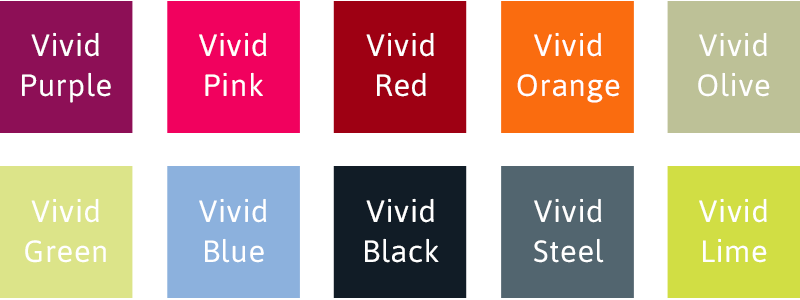
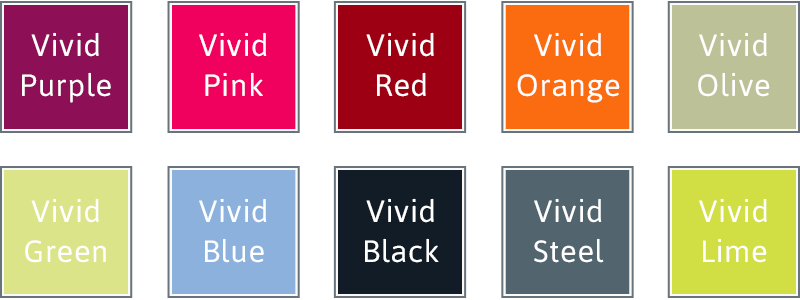
Numerous updates
* Add slideshow
* Improve color range section

diff --git a/css/theme.css b/css/theme.css
@@ -1,1 +1,1 @@
-body{font-family:'Open Sans',sans-serif;font-size:17px;line-height:27px;color:#68737c}h1,h2,h3,h4,h5,h6{font-family:'Asap',serif;font-weight:700;letter-spacing:1px}ul,ol{margin:15px 0 30px 10px;padding:0 0 0 20px}ul li,ol li{margin:0 0 8px 0}ul.no-bullets,ol.no-bullets{list-style:none;margin:0 0 20px 0;padding:0}ul.no-bullets li,ol.no-bullets li{margin:6px 0 10px 0}ul.no-bullets .fa,ol.no-bullets .fa{width:31px}em{font-style:normal;color:#3d464c;background:#fff5f6}a,a:hover,a:focus,a:active,a.active{outline:0}a{color:#e5293b}a:hover{color:#ff6574}a:focus,a:active{color:#ff6574;background:#fff5f6}.btn:focus,.btn:active,.btn.active,.btn:active:focus{outline:0}.btn-primary{font-size:17px;font-weight:700;text-transform:uppercase;letter-spacing:1px;text-shadow:0 1px 0 #bc0719;background:#e5293b;box-shadow:0 3px 0 0 #bc0719;border:0;border-radius:30px;margin:10px 10px 10px 0;padding:8px 22px}.btn-primary:hover,.btn-primary:active,.btn-primary:focus{background:#bc0719;box-shadow:0 3px 0 0 black}.btn-primary.size-lg{font-size:19px;padding:14px 40px}::selection{text-shadow:none;color:#bc0719;background:#fff5f6}.navbar-default .navbar-brand{background-image:url('../img/logo/logo-easyclad.png');background-repeat:no-repeat;background-size:80%!important;width:181px;height:27px;margin:14px 0 0 15px;-webkit-transition:all .3s;-moz-transition:all .3s;transition:all .3s}@media(-webkit-min-device-pixel-ratio:1.5),(min--moz-device-pixel-ratio:1.5),(-o-min-device-pixel-ratio:3/2),(min-resolution:1.5dppx){.navbar-default .navbar-brand{background-image:url('../img/logo/logo-easyclad_2x.png');background-repeat:no-repeat;background-size:181px 27px}}.navbar-default .navbar-brand:hover{opacity:.85}.navbar-default .navbar-toggle{background-color:#ff6574;border-color:#ff6574}.navbar-default .navbar-toggle .icon-bar{background-color:white}.navbar-default .navbar-toggle:hover,.navbar-default .navbar-toggle:focus{background-color:#e5293b;border-color:#e5293b}.navbar-default .nav li a{font-weight:700;letter-spacing:1px;color:#ff6574;padding:10px 20px}.navbar-default .nav li a:hover,.navbar-default .nav li a:focus{color:#e5293b;border-radius:30px;background:#fff5f6}.navbar-default .navbar-nav>.active>a{color:#e5293b;background:#fff5f6;border-radius:30px}.navbar-default .navbar-nav>.active>a:hover,.navbar-default .navbar-nav>.active>a:focus{color:#e5293b;background:#fff5f6;border-radius:30px}@media(min-width:768px){.navbar-default{background-color:rgba(255,255,255,0.88);box-shadow:0 1px 2px rgba(0,0,0,0.1);border-bottom:1px solid #fff;padding:16px 0 9px 0;-webkit-transition:padding .3s;-moz-transition:padding .3s;transition:padding .3s}.navbar-default .navbar-brand{background-image:url('../img/logo/logo-easyclad.png');background-repeat:no-repeat;background-size:100%!important;margin-top:6px}.navbar-default .navbar-nav>.active>a{border-radius:30px}.navbar-default.navbar-shrink{padding:6px 0 0 0}.navbar-default.navbar-shrink .navbar-brand{background-size:80%!important;margin-top:10px}}@media(min-width:768px) and (-webkit-min-device-pixel-ratio:1.5),(min--moz-device-pixel-ratio:1.5),(-o-min-device-pixel-ratio:3/2),(min-resolution:1.5dppx){.navbar-default .navbar-brand{background-image:url('../img/logo/logo-easyclad_2x.png');background-repeat:no-repeat;background-size:181px 27px}}header{color:white;background-image:url('../img/hero/hero-bg.jpg');background-repeat:no-repeat;background-size:cover!important;background-position:50% 0;border-bottom:2px solid #e5293b}@media(-webkit-min-device-pixel-ratio:1.5),(min--moz-device-pixel-ratio:1.5),(-o-min-device-pixel-ratio:3/2),(min-resolution:1.5dppx){header{background-image:url('../img/hero/hero-bg_2x.jpg');background-repeat:no-repeat;background-size:425px 253px}}header .intro-text{text-align:center;padding-top:100px;padding-bottom:50px}header .intro-text h2,header .intro-text h3{font-family:'Asap',serif;letter-spacing:1px;color:#e5293b;background:rgba(255,255,255,0.72);display:inline-block}header .intro-text h2{font-family:'Asap',serif;font-size:48px;line-height:54px;font-weight:400;font-style:italic;margin-bottom:18px;padding:0 8px 14px 8px}header .intro-text h3{font-size:24px;line-height:30px;color:#3d464c;margin:0 0 30px 0;padding:0 6px 6px 6px}@media(min-width:768px){header{min-height:700px;-webkit-animation:fadein 3s;-moz-animation:fadein 3s;-ms-animation:fadein 3s;-o-animation:fadein 3s;animation:fadein 3s}header .intro-text{padding-top:260px;padding-bottom:200px}header .intro-text h2{font-size:68px;line-height:74px}header .intro-text h3{font-size:34px;line-height:40px}}section{padding:20px 0}section h2.section-heading{color:#3d464c;margin:0}section h3.section-subheading{font-size:19px;line-height:26px;font-family:'Asap',serif;font-weight:400;margin:40px 0 20px 0}section h3.section-subheading.sidebar-widget{color:#3d464c;border-bottom:2px solid #f0f5f7;padding-bottom:10px}section h4{font-size:20px;color:#3d464c;margin:40px 0 20px 0}section img{margin-top:12px;margin-bottom:24px}@media(min-width:768px){section{padding:60px 0}section .main-col-wrap{margin:0 0 50px 0;padding-right:60px}section#about{padding:30px 0 50px 0}}section#about,section#color-range,section#contact{background:#fafcfd;border-top:2px solid #f0f5f7;border-bottom:2px solid #f0f5f7}aside.clients img{margin:50px auto}section#contact .form-group{margin-bottom:25px}section#contact .form-group input,section#contact .form-group textarea{padding:20px}section#contact .form-group input.form-control{height:auto}section#contact .form-group textarea.form-control{height:236px}section#contact .form-control:focus{box-shadow:none}footer{background-color:#fafcfd;border-top:2px solid #f0f5f7;padding:100px 0}footer .row>div{margin-bottom:20px}footer p{margin:0}footer p em{font-size:15px;font-weight:bold;color:#3d464c;background:0;margin-right:5px}footer p .fa{font-size:18px;color:#3d464c;position:relative;top:1px;width:25px}footer p a{vertical-align:top;color:#68737c}footer p a:hover{text-decoration:none;color:#e5293b}footer p.company-copyright{color:#3d464c;display:inline-block}.product-modal .modal-content{border-radius:0;background-clip:border-box;-webkit-box-shadow:none;box-shadow:none;border:0;min-height:100%;padding:100px 0;text-align:center}.product-modal .modal-content h2{margin-bottom:15px;font-size:3em}.product-modal .modal-content p{margin-bottom:30px}.product-modal .modal-content p.item-intro{margin:20px 0 30px;font-family:'Asap',serif;font-style:italic;font-size:16px}.product-modal .modal-content ul.list-inline{margin-bottom:30px;margin-top:0}.product-modal .modal-content img{margin-bottom:30px}.product-modal .close-modal{position:absolute;width:75px;height:75px;background-color:transparent;top:25px;right:25px;cursor:pointer}.product-modal .close-modal:hover{opacity:.3}.product-modal .close-modal .lr{height:75px;width:1px;margin-left:35px;background-color:#3d464c;transform:rotate(45deg);-ms-transform:rotate(45deg);-webkit-transform:rotate(45deg);z-index:1051}.product-modal .close-modal .lr .rl{height:75px;width:1px;background-color:#3d464c;transform:rotate(90deg);-ms-transform:rotate(90deg);-webkit-transform:rotate(90deg);z-index:1052}@keyframes fadein{from{opacity:0}to{opacity:1}}@-moz-keyframes fadein{from{opacity:0}to{opacity:1}}@-webkit-keyframes fadein{from{opacity:0}to{opacity:1}}@-ms-keyframes fadein{from{opacity:0}to{opacity:1}}@-o-keyframes fadein{from{opacity:0}to{opacity:1}}
+body{font-family:'Open Sans',sans-serif;font-size:17px;line-height:27px;color:#68737c}h1,h2,h3,h4,h5,h6{font-family:'Asap',serif;font-weight:700;letter-spacing:1px}ul,ol{margin:15px 0 30px 10px;padding:0 0 0 20px}ul li,ol li{margin:0 0 8px 0}ul.no-bullets,ol.no-bullets{list-style:none;margin:0 0 20px 0;padding:0}ul.no-bullets li,ol.no-bullets li{margin:6px 0 10px 0}ul.no-bullets .fa,ol.no-bullets .fa{width:31px}em{font-style:normal;color:#3d464c;background:#fff5f6}a,a:hover,a:focus,a:active,a.active{outline:0}a{color:#e5293b}a:hover{color:#ff6574}a:focus,a:active{color:#ff6574;background:#fff5f6}.btn:focus,.btn:active,.btn.active,.btn:active:focus{outline:0}.btn-primary{font-size:17px;font-weight:700;text-transform:uppercase;letter-spacing:1px;text-shadow:0 1px 0 #bc0719;background:#e5293b;box-shadow:0 3px 0 0 #bc0719;border:0;border-radius:30px;margin:10px 10px 10px 0;padding:8px 22px}.btn-primary:hover,.btn-primary:active,.btn-primary:focus{background:#bc0719;box-shadow:0 3px 0 0 black}.btn-primary.size-lg{font-size:19px;padding:14px 40px}::selection{text-shadow:none;color:#bc0719;background:#fff5f6}.navbar-default .navbar-brand{background-image:url('../img/logo/logo-easyclad.png');background-repeat:no-repeat;background-size:80%!important;width:181px;height:27px;margin:14px 0 0 15px;-webkit-transition:all .3s;-moz-transition:all .3s;transition:all .3s}@media(-webkit-min-device-pixel-ratio:1.5),(min--moz-device-pixel-ratio:1.5),(-o-min-device-pixel-ratio:3/2),(min-resolution:1.5dppx){.navbar-default .navbar-brand{background-image:url('../img/logo/logo-easyclad_2x.png');background-repeat:no-repeat;background-size:181px 27px}}.navbar-default .navbar-brand:hover{opacity:.85}.navbar-default .navbar-toggle{background-color:#ff6574;border-color:#ff6574}.navbar-default .navbar-toggle .icon-bar{background-color:white}.navbar-default .navbar-toggle:hover,.navbar-default .navbar-toggle:focus{background-color:#e5293b;border-color:#e5293b}.navbar-default .nav li a{font-weight:700;letter-spacing:1px;color:#e5293b;padding:10px 20px}.navbar-default .nav li a:hover,.navbar-default .nav li a:focus{color:#bc0719;border-radius:30px;background:#fff5f6}.navbar-default .navbar-nav>.active>a{color:#bc0719;background:#fff5f6;border-radius:30px}.navbar-default .navbar-nav>.active>a:hover,.navbar-default .navbar-nav>.active>a:focus{color:#e5293b;background:#fff5f6;border-radius:30px}@media(min-width:768px){.navbar-default{background-color:rgba(255,255,255,0.88);box-shadow:0 1px 2px rgba(0,0,0,0.1);border-bottom:1px solid #fff;padding:16px 0 9px 0;-webkit-transition:padding .3s;-moz-transition:padding .3s;transition:padding .3s}.navbar-default .navbar-brand{background-image:url('../img/logo/logo-easyclad.png');background-repeat:no-repeat;background-size:100%!important;margin-top:6px}.navbar-default .navbar-nav>.active>a{border-radius:30px}.navbar-default.navbar-shrink{padding:6px 0 0 0}.navbar-default.navbar-shrink .navbar-brand{background-size:80%!important;margin-top:10px}}@media(min-width:768px) and (-webkit-min-device-pixel-ratio:1.5),(min--moz-device-pixel-ratio:1.5),(-o-min-device-pixel-ratio:3/2),(min-resolution:1.5dppx){.navbar-default .navbar-brand{background-image:url('../img/logo/logo-easyclad_2x.png');background-repeat:no-repeat;background-size:181px 27px}}header{color:white;border-bottom:2px solid #e5293b}header .carousel{width:100%}header .carousel .slide-img{width:100%}header .intro-text{position:absolute;top:160px;text-align:left;z-index:2}header .intro-text h2,header .intro-text h3{font-family:'Asap',serif;letter-spacing:1px;color:#e5293b;background:rgba(255,255,255,0.85);display:inline-block}header .intro-text h2{font-family:'Asap',serif;font-size:48px;line-height:54px;font-weight:400;font-style:italic;margin-bottom:18px;padding:0 8px 14px 8px}header .intro-text h3{font-size:24px;line-height:30px;color:#3d464c;margin:0 0 30px 0;padding:0 6px 6px 6px}@media(min-width:768px){header{-webkit-animation:fadein 3s;-moz-animation:fadein 3s;-ms-animation:fadein 3s;-o-animation:fadein 3s;animation:fadein 3s}header .intro-text h2{font-size:68px;line-height:74px}header .intro-text h3{font-size:34px;line-height:40px}}section{padding:20px 0}section h2.section-heading{color:#3d464c;margin:0}section h3.section-subheading{font-size:19px;line-height:26px;font-family:'Asap',serif;font-weight:400;margin:40px 0 20px 0}section h3.section-subheading.sidebar-widget{color:#3d464c;border-bottom:2px solid #f0f5f7;padding-bottom:10px}section h4{font-size:20px;color:#3d464c;margin:40px 0 20px 0}section img{margin-top:12px;margin-bottom:24px}@media(min-width:768px){section{padding:60px 0}section .main-col-wrap{margin:0 0 50px 0;padding-right:60px}section#about{padding:30px 0 50px 0}}section#about,section#color-range,section#contact{background:#fafcfd;border-top:2px solid #f0f5f7;border-bottom:2px solid #f0f5f7}section#products img:hover{opacity:.85}aside.clients img{margin:50px auto}section#contact .form-group{margin-bottom:25px}section#contact .form-group input,section#contact .form-group textarea{padding:20px}section#contact .form-group input.form-control{height:auto}section#contact .form-group textarea.form-control{height:236px}section#contact .form-control:focus{box-shadow:none}footer{background-color:#fafcfd;border-top:2px solid #f0f5f7;padding:100px 0}footer .row>div{margin-bottom:20px}footer p{margin:0}footer p em{font-size:15px;font-weight:bold;color:#3d464c;background:0;margin-right:5px}footer p .fa{font-size:18px;color:#3d464c;position:relative;top:1px;width:25px}footer p a{vertical-align:top;color:#68737c}footer p a:hover{text-decoration:none;color:#e5293b}footer p.company-copyright{color:#3d464c;display:inline-block}.product-modal .modal-content{border-radius:0;background-clip:border-box;-webkit-box-shadow:none;box-shadow:none;border:0;min-height:100%;padding:100px 0;text-align:center}.product-modal .modal-content h2{margin-bottom:15px;font-size:3em}.product-modal .modal-content p{margin-bottom:30px}.product-modal .modal-content p.item-intro{margin:20px 0 30px;font-family:'Asap',serif;font-style:italic;font-size:16px}.product-modal .modal-content ul.list-inline{margin-bottom:30px;margin-top:0}.product-modal .modal-content img{margin-bottom:30px}.product-modal .close-modal{position:absolute;width:75px;height:75px;background-color:transparent;top:25px;right:25px;cursor:pointer}.product-modal .close-modal:hover{opacity:.3}.product-modal .close-modal .lr{height:75px;width:1px;margin-left:35px;background-color:#3d464c;transform:rotate(45deg);-ms-transform:rotate(45deg);-webkit-transform:rotate(45deg);z-index:1051}.product-modal .close-modal .lr .rl{height:75px;width:1px;background-color:#3d464c;transform:rotate(90deg);-ms-transform:rotate(90deg);-webkit-transform:rotate(90deg);z-index:1052}@keyframes fadein{from{opacity:0}to{opacity:1}}@-moz-keyframes fadein{from{opacity:0}to{opacity:1}}@-webkit-keyframes fadein{from{opacity:0}to{opacity:1}}@-ms-keyframes fadein{from{opacity:0}to{opacity:1}}@-o-keyframes fadein{from{opacity:0}to{opacity:1}}

diff --git a/index.html b/index.html
@@ -84,6 +84,21 @@
 
     <!-- Header -->
     <header>
+			<div id="carousel-example-generic" class="carousel slide" data-ride="carousel">
+
+			  <!-- Wrapper for slides -->
+			  <div class="carousel-inner" role="listbox">
+			    <div class="item active">
+			      <img src="img/hero/hero-slide-01_2x.jpg" class="slide-img" alt="A photo of EasyClad wall cladding.">
+			    </div>
+			    <div class="item">
+			      <img src="img/hero/hero-slide-02_2x.jpg" class="slide-img" alt="A photo of EasyClad wall cladding.">
+			    </div>
+			    <div class="item">
+				    <img src="img/hero/hero-slide-03_2x.jpg" class="slide-img" alt="A photo of EasyClad wall cladding.">
+			    </div>
+			  </div>
+			</div>
       <div class="container">
         <div class="intro-text">
           <div class="intro-lead-in"><h2>Hygienic wall cladding</h2></div>
@@ -118,7 +133,7 @@
 		        <p>No problem! We're here to help. Call our experts who can advise you on the right material to suit your requirements or drop us an email and we'll call you.</p>
 	          <ul class="no-bullets cta-quote">
 	            <li><i class="fa fa-lg fa-phone"></i>0330 100 0313</li>
-	            <li><i class="fa fa-lg fa-envelope-o"></i><a href="#">sales@cladding.co.uk</a></li>
+	            <li><i class="fa fa-lg fa-envelope-o"></i><a href="mailto:Sylvester.Rowe@bioclad.com?subject=EasyClad website enquiry">sales@cladding.co.uk</a></li>
 	          </ul>
 			    </div>
 	      </div>
@@ -136,7 +151,7 @@
 		        <h3 class="section-subheading">The EasyClad wall cladding range has been providing a competitive option for the construction industry and DIY enthusiast for over 15 years.</h3>
               <h4>EasyClad single skin PVC wall cladding</h4>
               <a href="#productModal1" class="product-link" data-toggle="modal">
-                <img src="img/artwork/product-single-skin.jpg" class="img-responsive" alt="An artistic impression of a property development.">
+                <img src="img/artwork/product-single-skin.jpg" class="img-responsive" alt="Photo of EasyClad single skin PVC wall cladding.">
               </a>
               <p>Our original wall cladding product is suitable for areas requiring a hygienic finish such as kitchens, wet areas, wards and food manufacture. It can be easily fitted with our silicone free gasket system.</p>
               <p>Product available in White, Cream, Green, Blue and Grey.</p>
@@ -161,7 +176,7 @@
         <div class="row">
           <div class="col-md-8 col-sm-8 main-col-wrap">
               <a href="#productModal1" class="product-link" data-toggle="modal">
-                <img src="img/artwork/product-single-skin.jpg" class="img-responsive" alt="An artistic impression of a property development.">
+                <img src="img/artwork/product-single-skin.jpg" class="img-responsive" alt="Photo of EasyClad single skin PVC wall cladding.">
               </a>
               <h4>EasyClad 10mm rigid board wall cladding</h4>
               <p>Our original wall cladding product is suitable for areas requiring a hygienic finish such as kitchens, wet areas, wards and food manufacture. It can be easily fitted with our silicone free gasket system.</p>
@@ -175,7 +190,7 @@
         <div class="row">
           <div class="col-md-8 col-sm-8 main-col-wrap">
               <a href="#productModal1" class="product-link" data-toggle="modal">
-                <img src="img/artwork/product-single-skin.jpg" class="img-responsive" alt="An artistic impression of a property development.">
+                <img src="img/artwork/product-single-skin.jpg" class="img-responsive" alt="Photo of EasyClad single skin PVC wall cladding.">
               </a>
               <h4>EasyClad ceiling plank system</h4>
               <p>Our original wall cladding product is suitable for areas requiring a hygienic finish such as kitchens, wet areas, wards and food manufacture. It can be easily fitted with our silicone free gasket system.</p>
@@ -337,7 +352,7 @@
 	              <div class="col-md-4">
 									<p><em>T</em> 0330 100 0313</p>
 									<p><em>F</em> 0330 100 0314</p>
-									<p><em>E</em> sales@cladding.co.uk</p>
+									<p><em>E</em> <a href="mailto:Sylvester.Rowe@bioclad.com?subject=EasyClad website enquiry">sales@cladding.co.uk</a></p>
                 </div>
                 <div class="col-md-2">
 	                <p><a href="https://www.facebook.com/pages/EasyClad/355086737949390" target="_blank" title="Like EasyClad on Facebook for wall cladding news."><i class="fa fa-facebook-square"></i>Facebook</a></p>

diff --git a/less/theme.less b/less/theme.less
@@ -123,11 +123,11 @@ a:active {
   		a {
     		font-weight: 700;
   			letter-spacing: 1px;
-  			color: @link-hover;
+  			color: @link;
   			padding: 10px 20px;
   			&:hover,
   			&:focus {
-  				color: @link;
+  				color: @brand-dk;
 					border-radius: 30px;
 					background: @brand-bg;
   			}
@@ -135,7 +135,7 @@ a:active {
   	}
   }
 	.navbar-nav>.active>a {
-		color: @brand;
+		color: @brand-dk;
 		background: @brand-bg;
 		border-radius: 30px;
 	}
@@ -177,19 +177,28 @@ a:active {
 // hero
 header {
 	color: white;
+/*
 	.2x('../img/hero/hero-bg.jpg', "no-repeat", 425px, 253px);
 	background-size: cover !important;
 	background-position: 50% 0px;
+*/
 	border-bottom: 2px solid @brand;
+	.carousel {
+		width: 100%;
+		.slide-img {
+			width: 100%;
+		}
+	}
 	.intro-text {
-		text-align: center;
-		padding-top: 100px;
-		padding-bottom: 50px;
+		position: absolute;
+		top: 160px;
+		text-align: left;
+		z-index: 2;
 		h2, h3 {
 			font-family: @headline-font;
 			letter-spacing: 1px;
 			color: @brand;
-			background: rgba(255,255,255,0.72);
+			background: rgba(255,255,255,0.85);
 			display: inline-block;
 		}
 		h2 {
@@ -213,15 +222,12 @@ header {
 
 @media(min-width:768px) {
 	header {
-		min-height: 700px;
 	  -webkit-animation: fadein 3s; /* Safari and Chrome */
 	   -moz-animation: fadein 3s; /* Firefox */
 	    -ms-animation: fadein 3s; /* Internet Explorer */
 	     -o-animation: fadein 3s; /* Opera */
 	        animation: fadein 3s;
 		.intro-text {
-			padding-top: 260px;
-			padding-bottom: 200px;
 			h2 {
 				font-size: 68px;
 				line-height: 74px;
@@ -288,6 +294,11 @@ section#contact {
 
 // Products section
 section#products {
+	img {
+		&:hover {
+			opacity: 0.85;
+		}
+	}
 }
 
 // Clients Aside
